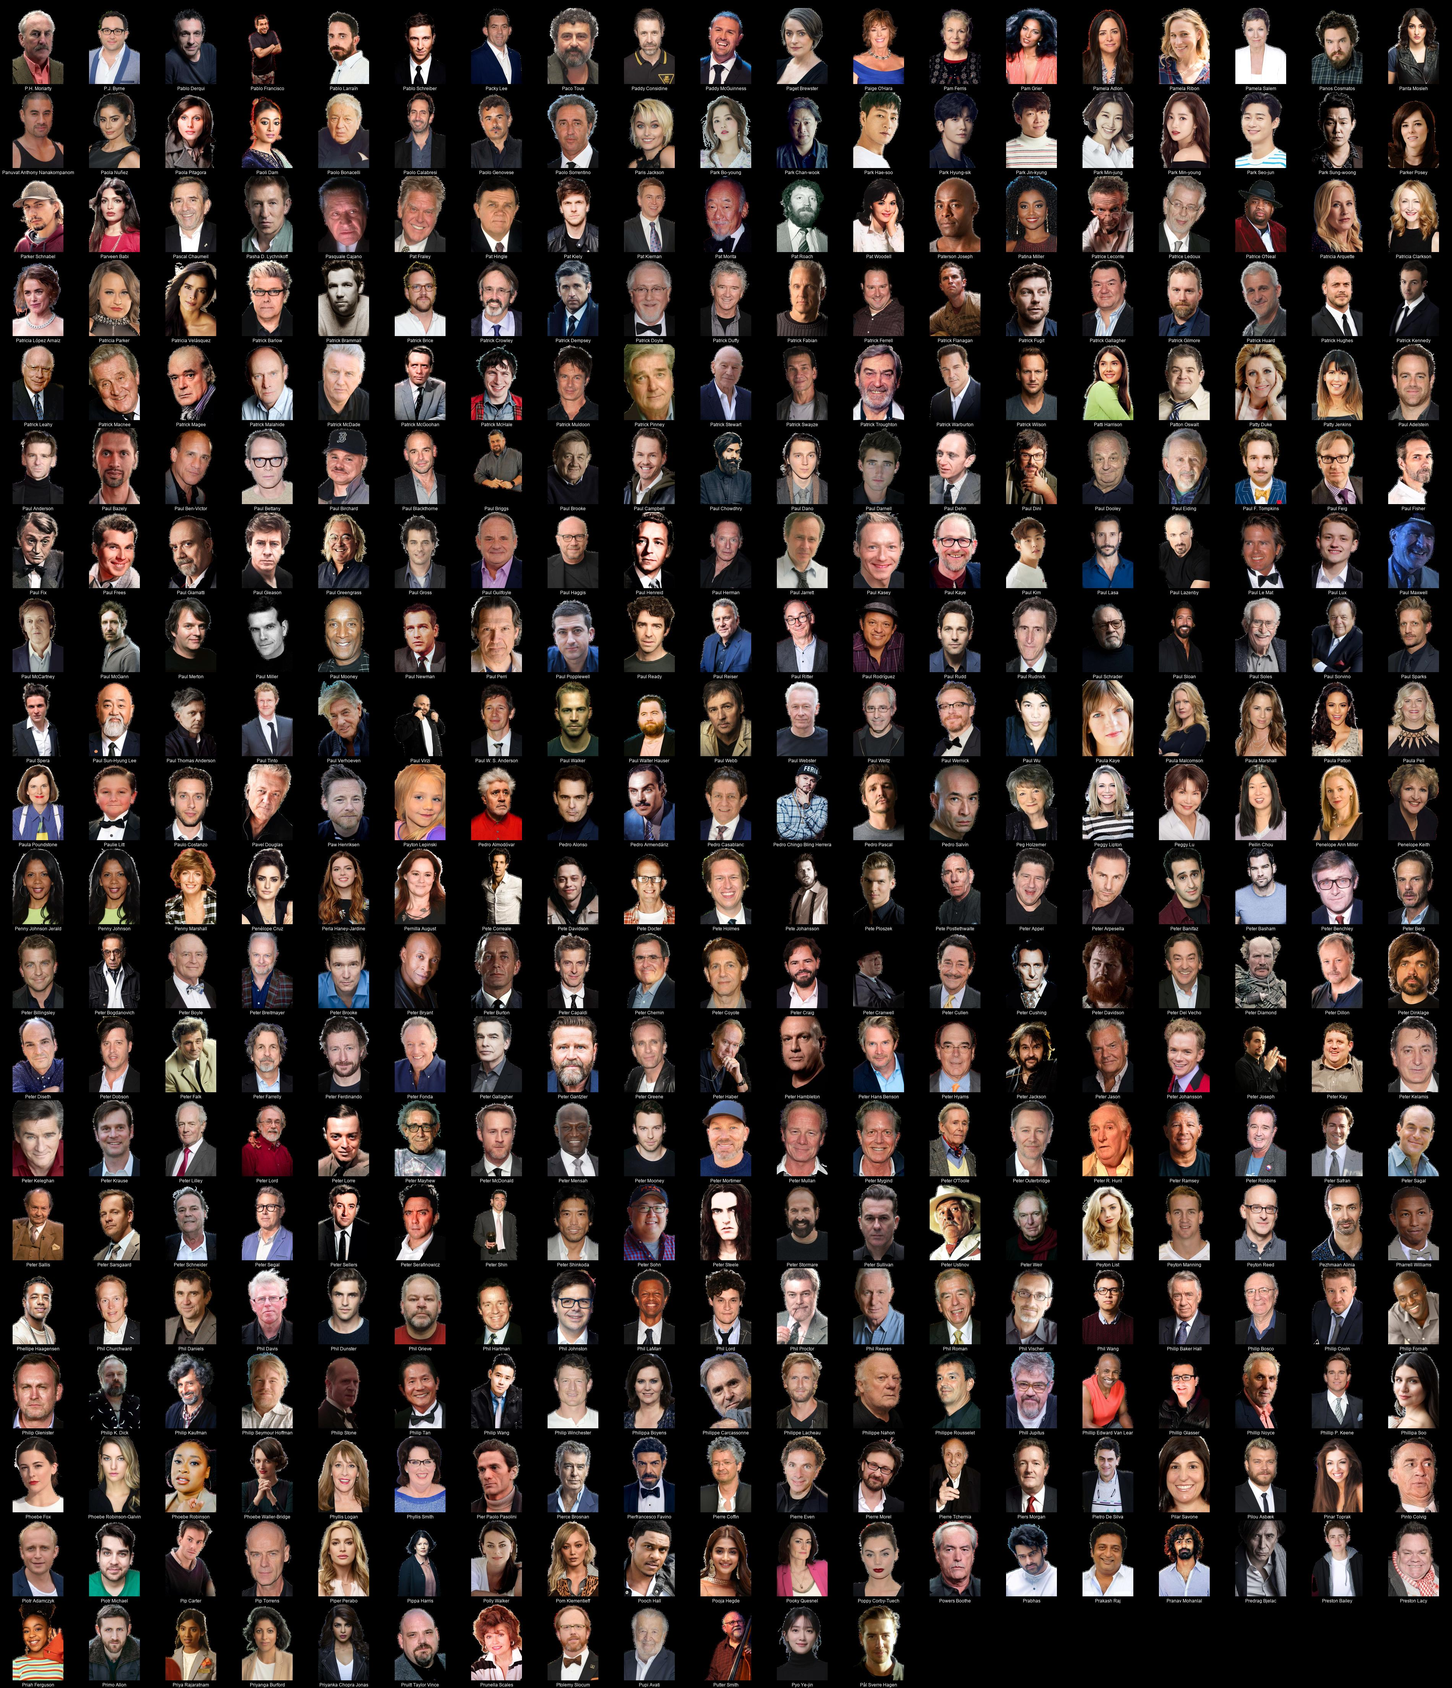
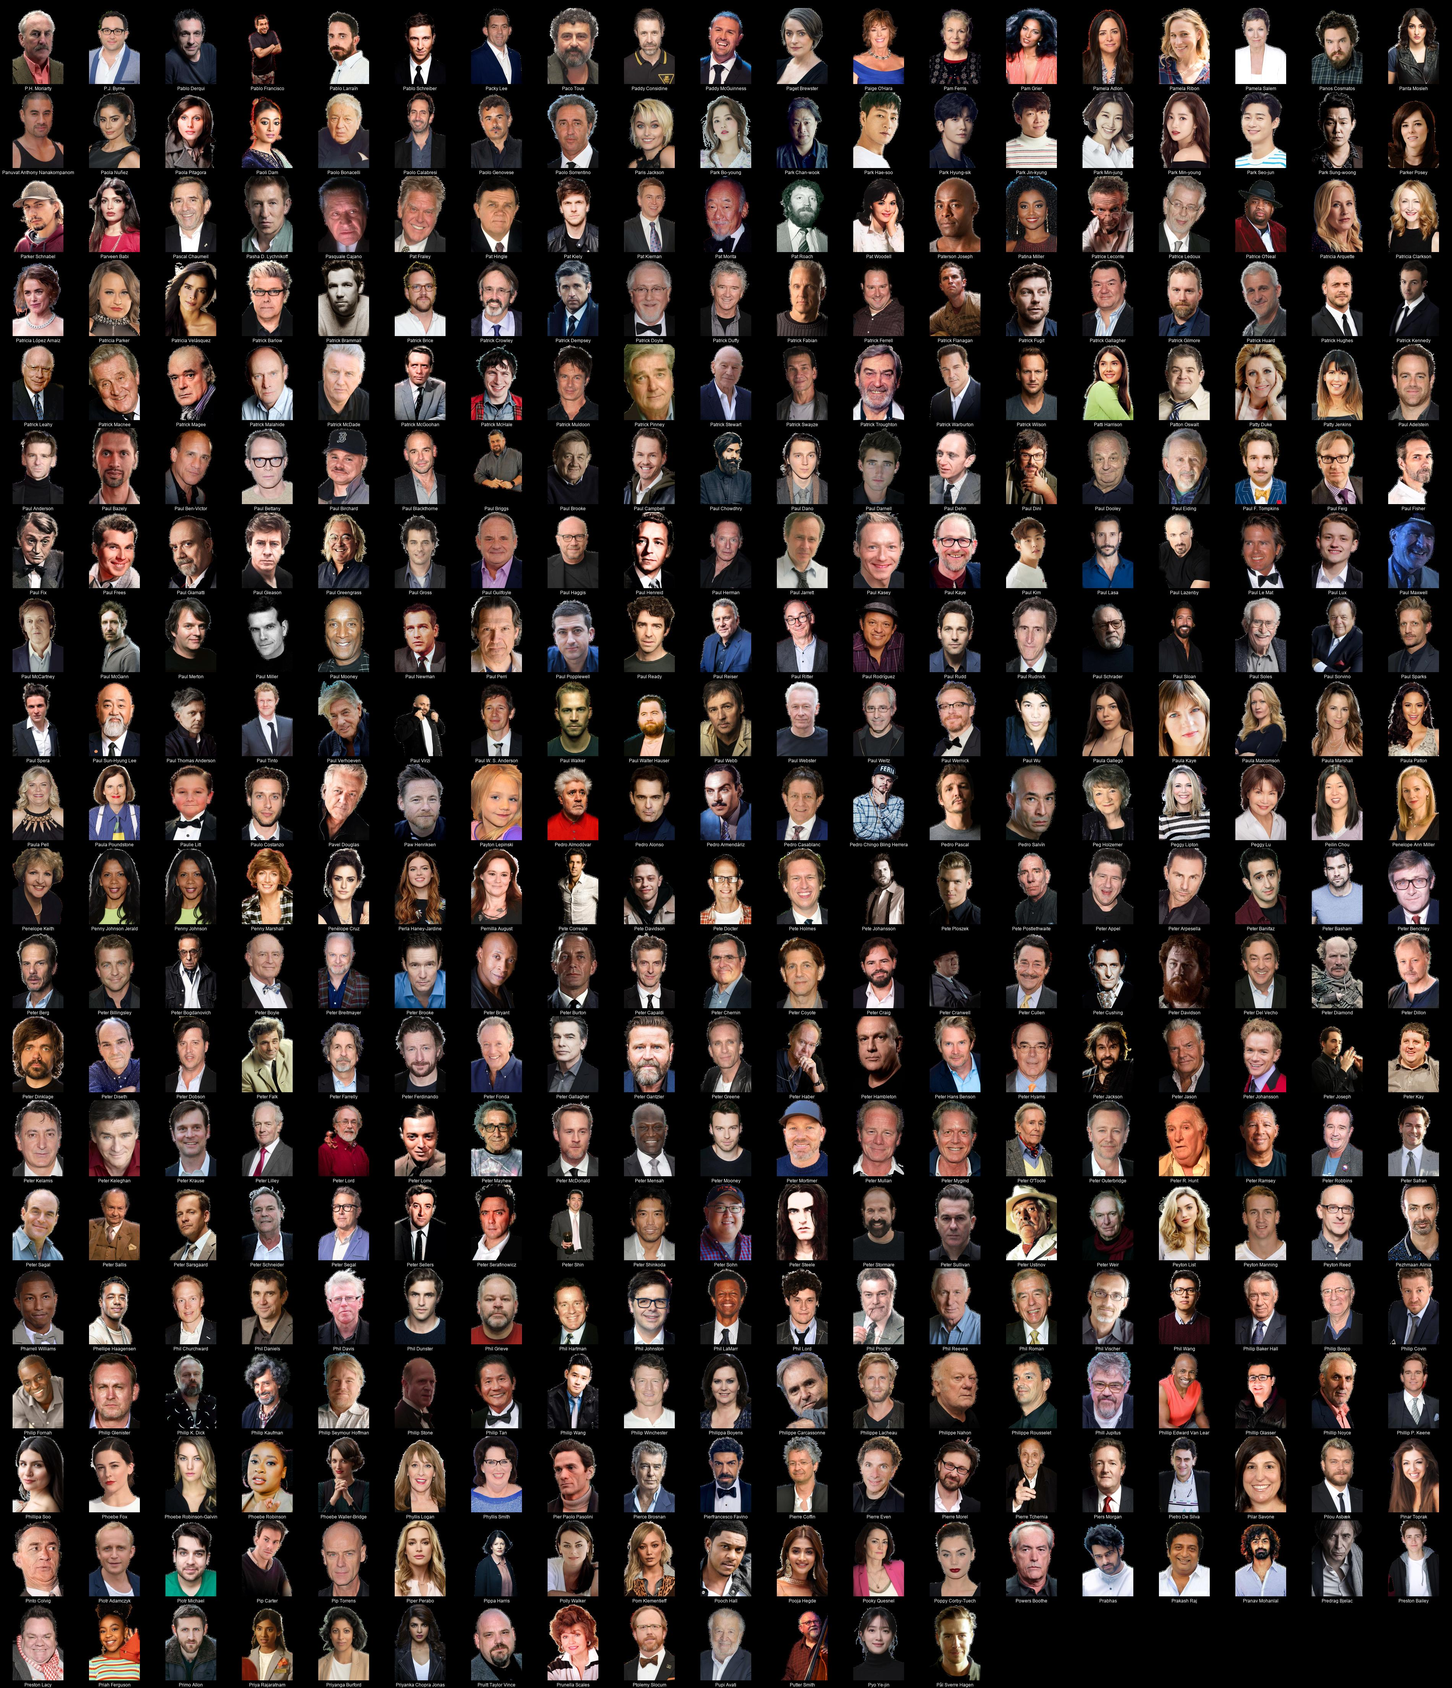
more grids

Changed region(s): [[0.0, 0.4059, 0.9937, 0.9991]]

diff --git a/README.md b/README.md
@@ -1,10 +1,10 @@
-# Kometa People Images - Transparent (transparent) (9590 Images)
+# Kometa People Images - Transparent (transparent) (9601 Images)
 
 <details><summary><a href="'">' (1 Images)</a></summary>
 
 * ['Weird Al' Yankovic](https://raw.githubusercontent.com/Kometa-Team/People-Images-transparent/master/'/Images/%27Weird%20Al%27%20Yankovic.png)
 </details>
-<details><summary><a href="A">A (779 Images)</a></summary>
+<details><summary><a href="A">A (780 Images)</a></summary>
 
 * [AJ Kane](https://raw.githubusercontent.com/Kometa-Team/People-Images-transparent/master/A/Images/AJ%20Kane.png)
 * [Aamir Khan](https://raw.githubusercontent.com/Kometa-Team/People-Images-transparent/master/A/Images/Aamir%20Khan.png)
@@ -71,6 +71,7 @@
 * [Adam Newman](https://raw.githubusercontent.com/Kometa-Team/People-Images-transparent/master/A/Images/Adam%20Newman.png)
 * [Adam Pally](https://raw.githubusercontent.com/Kometa-Team/People-Images-transparent/master/A/Images/Adam%20Pally.png)
 * [Adam Pelta-Pauls](https://raw.githubusercontent.com/Kometa-Team/People-Images-transparent/master/A/Images/Adam%20Pelta-Pauls.png)
+* [Adam Pålsson](https://raw.githubusercontent.com/Kometa-Team/People-Images-transparent/master/A/Images/Adam%20P%C3%A5lsson.png)
 * [Adam Quezada](https://raw.githubusercontent.com/Kometa-Team/People-Images-transparent/master/A/Images/Adam%20Quezada.png)
 * [Adam Sandler](https://raw.githubusercontent.com/Kometa-Team/People-Images-transparent/master/A/Images/Adam%20Sandler.png)
 * [Adam Scott](https://raw.githubusercontent.com/Kometa-Team/People-Images-transparent/master/A/Images/Adam%20Scott.png)
@@ -2854,7 +2855,7 @@
 * [Ezra Buzzington](https://raw.githubusercontent.com/Kometa-Team/People-Images-transparent/master/E/Images/Ezra%20Buzzington.png)
 * [Ezra Miller](https://raw.githubusercontent.com/Kometa-Team/People-Images-transparent/master/E/Images/Ezra%20Miller.png)
 </details>
-<details><summary><a href="F">F (170 Images)</a></summary>
+<details><summary><a href="F">F (172 Images)</a></summary>
 
 * [F. Gary Gray](https://raw.githubusercontent.com/Kometa-Team/People-Images-transparent/master/F/Images/F.%20Gary%20Gray.png)
 * [F. Murray Abraham](https://raw.githubusercontent.com/Kometa-Team/People-Images-transparent/master/F/Images/F.%20Murray%20Abraham.png)
@@ -2890,6 +2891,7 @@
 * [Faye Wong](https://raw.githubusercontent.com/Kometa-Team/People-Images-transparent/master/F/Images/Faye%20Wong.png)
 * [Fede Álvarez](https://raw.githubusercontent.com/Kometa-Team/People-Images-transparent/master/F/Images/Fede%20%C3%81lvarez.png)
 * [Federico Fellini](https://raw.githubusercontent.com/Kometa-Team/People-Images-transparent/master/F/Images/Federico%20Fellini.png)
+* [Fele Martínez](https://raw.githubusercontent.com/Kometa-Team/People-Images-transparent/master/F/Images/Fele%20Mart%C3%ADnez.png)
 * [Felicity Huffman](https://raw.githubusercontent.com/Kometa-Team/People-Images-transparent/master/F/Images/Felicity%20Huffman.png)
 * [Felicity Jones](https://raw.githubusercontent.com/Kometa-Team/People-Images-transparent/master/F/Images/Felicity%20Jones.png)
 * [Felicity Montagu](https://raw.githubusercontent.com/Kometa-Team/People-Images-transparent/master/F/Images/Felicity%20Montagu.png)
@@ -2907,6 +2909,7 @@
 * [Fernando Cayo](https://raw.githubusercontent.com/Kometa-Team/People-Images-transparent/master/F/Images/Fernando%20Cayo.png)
 * [Fernando Chien](https://raw.githubusercontent.com/Kometa-Team/People-Images-transparent/master/F/Images/Fernando%20Chien.png)
 * [Fernando Di Leo](https://raw.githubusercontent.com/Kometa-Team/People-Images-transparent/master/F/Images/Fernando%20Di%20Leo.png)
+* [Fernando Gil](https://raw.githubusercontent.com/Kometa-Team/People-Images-transparent/master/F/Images/Fernando%20Gil.png)
 * [Fernando Meirelles](https://raw.githubusercontent.com/Kometa-Team/People-Images-transparent/master/F/Images/Fernando%20Meirelles.png)
 * [Fernando Rey](https://raw.githubusercontent.com/Kometa-Team/People-Images-transparent/master/F/Images/Fernando%20Rey.png)
 * [Fernando Soto](https://raw.githubusercontent.com/Kometa-Team/People-Images-transparent/master/F/Images/Fernando%20Soto.png)
@@ -3027,7 +3030,7 @@
 * [Fritz von Friedl](https://raw.githubusercontent.com/Kometa-Team/People-Images-transparent/master/F/Images/Fritz%20von%20Friedl.png)
 * [Frédéric North](https://raw.githubusercontent.com/Kometa-Team/People-Images-transparent/master/F/Images/Fr%C3%A9d%C3%A9ric%20North.png)
 </details>
-<details><summary><a href="G">G (323 Images)</a></summary>
+<details><summary><a href="G">G (324 Images)</a></summary>
 
 * [G-Eazy](https://raw.githubusercontent.com/Kometa-Team/People-Images-transparent/master/G/Images/G-Eazy.png)
 * [G. D. Spradlin](https://raw.githubusercontent.com/Kometa-Team/People-Images-transparent/master/G/Images/G.%20D.%20Spradlin.png)
@@ -3265,6 +3268,7 @@
 * [Gordon Liu Chia-Hui](https://raw.githubusercontent.com/Kometa-Team/People-Images-transparent/master/G/Images/Gordon%20Liu%20Chia-Hui.png)
 * [Gordon Ramsay](https://raw.githubusercontent.com/Kometa-Team/People-Images-transparent/master/G/Images/Gordon%20Ramsay.png)
 * [Gore Verbinski](https://raw.githubusercontent.com/Kometa-Team/People-Images-transparent/master/G/Images/Gore%20Verbinski.png)
+* [Gorka Otxoa](https://raw.githubusercontent.com/Kometa-Team/People-Images-transparent/master/G/Images/Gorka%20Otxoa.png)
 * [Goro Miyazaki](https://raw.githubusercontent.com/Kometa-Team/People-Images-transparent/master/G/Images/Goro%20Miyazaki.png)
 * [Gottfried John](https://raw.githubusercontent.com/Kometa-Team/People-Images-transparent/master/G/Images/Gottfried%20John.png)
 * [Govinda](https://raw.githubusercontent.com/Kometa-Team/People-Images-transparent/master/G/Images/Govinda.png)
@@ -4897,7 +4901,7 @@
 * [Jürgen Prochnow](https://raw.githubusercontent.com/Kometa-Team/People-Images-transparent/master/J/Images/J%C3%BCrgen%20Prochnow.png)
 * [Jūzō Itami](https://raw.githubusercontent.com/Kometa-Team/People-Images-transparent/master/J/Images/J%C5%ABz%C5%8D%20Itami.png)
 </details>
-<details><summary><a href="K">K (470 Images)</a></summary>
+<details><summary><a href="K">K (471 Images)</a></summary>
 
 * [K Raghavendra Rao](https://raw.githubusercontent.com/Kometa-Team/People-Images-transparent/master/K/Images/K%20Raghavendra%20Rao.png)
 * [K.J. Apa](https://raw.githubusercontent.com/Kometa-Team/People-Images-transparent/master/K/Images/K.J.%20Apa.png)
@@ -5263,6 +5267,7 @@
 * [King Hu](https://raw.githubusercontent.com/Kometa-Team/People-Images-transparent/master/K/Images/King%20Hu.png)
 * [Kinji Fukasaku](https://raw.githubusercontent.com/Kometa-Team/People-Images-transparent/master/K/Images/Kinji%20Fukasaku.png)
 * [Kip Chapman](https://raw.githubusercontent.com/Kometa-Team/People-Images-transparent/master/K/Images/Kip%20Chapman.png)
+* [Kira Miró](https://raw.githubusercontent.com/Kometa-Team/People-Images-transparent/master/K/Images/Kira%20Mir%C3%B3.png)
 * [Kiran Shah](https://raw.githubusercontent.com/Kometa-Team/People-Images-transparent/master/K/Images/Kiran%20Shah.png)
 * [Kirby Howell-Baptiste](https://raw.githubusercontent.com/Kometa-Team/People-Images-transparent/master/K/Images/Kirby%20Howell-Baptiste.png)
 * [Kirill Nikiforov](https://raw.githubusercontent.com/Kometa-Team/People-Images-transparent/master/K/Images/Kirill%20Nikiforov.png)
@@ -5370,7 +5375,7 @@
 * [Kyung Soo-jin](https://raw.githubusercontent.com/Kometa-Team/People-Images-transparent/master/K/Images/Kyung%20Soo-jin.png)
 * [Kō Nakahira](https://raw.githubusercontent.com/Kometa-Team/People-Images-transparent/master/K/Images/K%C5%8D%20Nakahira.png)
 </details>
-<details><summary><a href="L">L (413 Images)</a></summary>
+<details><summary><a href="L">L (414 Images)</a></summary>
 
 * [L. Q. Jones](https://raw.githubusercontent.com/Kometa-Team/People-Images-transparent/master/L/Images/L.%20Q.%20Jones.png)
 * [LL Cool J](https://raw.githubusercontent.com/Kometa-Team/People-Images-transparent/master/L/Images/LL%20Cool%20J.png)
@@ -5440,6 +5445,7 @@
 * [Laura Hitchings](https://raw.githubusercontent.com/Kometa-Team/People-Images-transparent/master/L/Images/Laura%20Hitchings.png)
 * [Laura Linney](https://raw.githubusercontent.com/Kometa-Team/People-Images-transparent/master/L/Images/Laura%20Linney.png)
 * [Laura Porta](https://raw.githubusercontent.com/Kometa-Team/People-Images-transparent/master/L/Images/Laura%20Porta.png)
+* [Laura Río](https://raw.githubusercontent.com/Kometa-Team/People-Images-transparent/master/L/Images/Laura%20R%C3%ADo.png)
 * [Laura Slade Wiggins](https://raw.githubusercontent.com/Kometa-Team/People-Images-transparent/master/L/Images/Laura%20Slade%20Wiggins.png)
 * [Laura Solon](https://raw.githubusercontent.com/Kometa-Team/People-Images-transparent/master/L/Images/Laura%20Solon.png)
 * [Laura Vandervoort](https://raw.githubusercontent.com/Kometa-Team/People-Images-transparent/master/L/Images/Laura%20Vandervoort.png)
@@ -5786,7 +5792,7 @@
 * [Léa Seydoux](https://raw.githubusercontent.com/Kometa-Team/People-Images-transparent/master/L/Images/L%C3%A9a%20Seydoux.png)
 * [Lúcio Andrey](https://raw.githubusercontent.com/Kometa-Team/People-Images-transparent/master/L/Images/L%C3%BAcio%20Andrey.png)
 </details>
-<details><summary><a href="M">M (900 Images)</a></summary>
+<details><summary><a href="M">M (901 Images)</a></summary>
 
 * [M'laah Kaur Singh](https://raw.githubusercontent.com/Kometa-Team/People-Images-transparent/master/M/Images/M%27laah%20Kaur%20Singh.png)
 * [M. Emmet Walsh](https://raw.githubusercontent.com/Kometa-Team/People-Images-transparent/master/M/Images/M.%20Emmet%20Walsh.png)
@@ -6132,6 +6138,7 @@
 * [Maryam d'Abo](https://raw.githubusercontent.com/Kometa-Team/People-Images-transparent/master/M/Images/Maryam%20d%27Abo.png)
 * [Maryann Plunkett](https://raw.githubusercontent.com/Kometa-Team/People-Images-transparent/master/M/Images/Maryann%20Plunkett.png)
 * [María Cecilia Botero](https://raw.githubusercontent.com/Kometa-Team/People-Images-transparent/master/M/Images/Mar%C3%ADa%20Cecilia%20Botero.png)
+* [María Hervás](https://raw.githubusercontent.com/Kometa-Team/People-Images-transparent/master/M/Images/Mar%C3%ADa%20Herv%C3%A1s.png)
 * [Masaaki Yuasa](https://raw.githubusercontent.com/Kometa-Team/People-Images-transparent/master/M/Images/Masaaki%20Yuasa.png)
 * [Masahiko Nishimura](https://raw.githubusercontent.com/Kometa-Team/People-Images-transparent/master/M/Images/Masahiko%20Nishimura.png)
 * [Masakazu Morita](https://raw.githubusercontent.com/Kometa-Team/People-Images-transparent/master/M/Images/Masakazu%20Morita.png)
@@ -6689,7 +6696,7 @@
 * [Måns Nathanaelson](https://raw.githubusercontent.com/Kometa-Team/People-Images-transparent/master/M/Images/M%C3%A5ns%20Nathanaelson.png)
 * [Mélanie Laurent](https://raw.githubusercontent.com/Kometa-Team/People-Images-transparent/master/M/Images/M%C3%A9lanie%20Laurent.png)
 </details>
-<details><summary><a href="N">N (267 Images)</a></summary>
+<details><summary><a href="N">N (268 Images)</a></summary>
 
 * [N.T. Rama Rao Jr.](https://raw.githubusercontent.com/Kometa-Team/People-Images-transparent/master/N/Images/N.T.%20Rama%20Rao%20Jr..png)
 * [Na Hong-jin](https://raw.githubusercontent.com/Kometa-Team/People-Images-transparent/master/N/Images/Na%20Hong-jin.png)
@@ -6764,6 +6771,7 @@
 * [Nawazuddin Siddiqui](https://raw.githubusercontent.com/Kometa-Team/People-Images-transparent/master/N/Images/Nawazuddin%20Siddiqui.png)
 * [Naya Rivera](https://raw.githubusercontent.com/Kometa-Team/People-Images-transparent/master/N/Images/Naya%20Rivera.png)
 * [Nazanin Boniadi](https://raw.githubusercontent.com/Kometa-Team/People-Images-transparent/master/N/Images/Nazanin%20Boniadi.png)
+* [Nazaret Aracil](https://raw.githubusercontent.com/Kometa-Team/People-Images-transparent/master/N/Images/Nazaret%20Aracil.png)
 * [Nazneen Contractor](https://raw.githubusercontent.com/Kometa-Team/People-Images-transparent/master/N/Images/Nazneen%20Contractor.png)
 * [Ncuti Gatwa](https://raw.githubusercontent.com/Kometa-Team/People-Images-transparent/master/N/Images/Ncuti%20Gatwa.png)
 * [Neal Brennan](https://raw.githubusercontent.com/Kometa-Team/People-Images-transparent/master/N/Images/Neal%20Brennan.png)
@@ -7045,7 +7053,7 @@
 * [Owen Teale](https://raw.githubusercontent.com/Kometa-Team/People-Images-transparent/master/O/Images/Owen%20Teale.png)
 * [Owen Wilson](https://raw.githubusercontent.com/Kometa-Team/People-Images-transparent/master/O/Images/Owen%20Wilson.png)
 </details>
-<details><summary><a href="P">P (373 Images)</a></summary>
+<details><summary><a href="P">P (374 Images)</a></summary>
 
 * [P.H. Moriarty](https://raw.githubusercontent.com/Kometa-Team/People-Images-transparent/master/P/Images/P.H.%20Moriarty.png)
 * [P.J. Byrne](https://raw.githubusercontent.com/Kometa-Team/People-Images-transparent/master/P/Images/P.J.%20Byrne.png)
@@ -7213,6 +7221,7 @@
 * [Paul Weitz](https://raw.githubusercontent.com/Kometa-Team/People-Images-transparent/master/P/Images/Paul%20Weitz.png)
 * [Paul Wernick](https://raw.githubusercontent.com/Kometa-Team/People-Images-transparent/master/P/Images/Paul%20Wernick.png)
 * [Paul Wu](https://raw.githubusercontent.com/Kometa-Team/People-Images-transparent/master/P/Images/Paul%20Wu.png)
+* [Paula Gallego](https://raw.githubusercontent.com/Kometa-Team/People-Images-transparent/master/P/Images/Paula%20Gallego.png)
 * [Paula Kaye](https://raw.githubusercontent.com/Kometa-Team/People-Images-transparent/master/P/Images/Paula%20Kaye.png)
 * [Paula Malcomson](https://raw.githubusercontent.com/Kometa-Team/People-Images-transparent/master/P/Images/Paula%20Malcomson.png)
 * [Paula Marshall](https://raw.githubusercontent.com/Kometa-Team/People-Images-transparent/master/P/Images/Paula%20Marshall.png)
@@ -7432,7 +7441,7 @@
 * [Quinn Duffy](https://raw.githubusercontent.com/Kometa-Team/People-Images-transparent/master/Q/Images/Quinn%20Duffy.png)
 * [Quinton Jackson](https://raw.githubusercontent.com/Kometa-Team/People-Images-transparent/master/Q/Images/Quinton%20Jackson.png)
 </details>
-<details><summary><a href="R">R (612 Images)</a></summary>
+<details><summary><a href="R">R (614 Images)</a></summary>
 
 * [R. Lee Ermey](https://raw.githubusercontent.com/Kometa-Team/People-Images-transparent/master/R/Images/R.%20Lee%20Ermey.png)
 * [R. Madhavan](https://raw.githubusercontent.com/Kometa-Team/People-Images-transparent/master/R/Images/R.%20Madhavan.png)
@@ -7516,6 +7525,7 @@
 * [Ranveer Singh](https://raw.githubusercontent.com/Kometa-Team/People-Images-transparent/master/R/Images/Ranveer%20Singh.png)
 * [Raoul Walsh](https://raw.githubusercontent.com/Kometa-Team/People-Images-transparent/master/R/Images/Raoul%20Walsh.png)
 * [Raphael Alejandro](https://raw.githubusercontent.com/Kometa-Team/People-Images-transparent/master/R/Images/Raphael%20Alejandro.png)
+* [Raquel Guerrero](https://raw.githubusercontent.com/Kometa-Team/People-Images-transparent/master/R/Images/Raquel%20Guerrero.png)
 * [Raquel Welch](https://raw.githubusercontent.com/Kometa-Team/People-Images-transparent/master/R/Images/Raquel%20Welch.png)
 * [Rashad Evans](https://raw.githubusercontent.com/Kometa-Team/People-Images-transparent/master/R/Images/Rashad%20Evans.png)
 * [Rashida Jones](https://raw.githubusercontent.com/Kometa-Team/People-Images-transparent/master/R/Images/Rashida%20Jones.png)
@@ -7552,6 +7562,7 @@
 * [Rayner Bourton](https://raw.githubusercontent.com/Kometa-Team/People-Images-transparent/master/R/Images/Rayner%20Bourton.png)
 * [Rayver Cruz](https://raw.githubusercontent.com/Kometa-Team/People-Images-transparent/master/R/Images/Rayver%20Cruz.png)
 * [Raúl Esparza](https://raw.githubusercontent.com/Kometa-Team/People-Images-transparent/master/R/Images/Ra%C3%BAl%20Esparza.png)
+* [Raúl Tejón](https://raw.githubusercontent.com/Kometa-Team/People-Images-transparent/master/R/Images/Ra%C3%BAl%20Tej%C3%B3n.png)
 * [Reb Brown](https://raw.githubusercontent.com/Kometa-Team/People-Images-transparent/master/R/Images/Reb%20Brown.png)
 * [Rebecca Ferguson](https://raw.githubusercontent.com/Kometa-Team/People-Images-transparent/master/R/Images/Rebecca%20Ferguson.png)
 * [Rebecca Front](https://raw.githubusercontent.com/Kometa-Team/People-Images-transparent/master/R/Images/Rebecca%20Front.png)

diff --git a/R/README.md b/R/README.md
@@ -1,4 +1,4 @@
-# Kometa People Images - Transparent (transparent) - R (612 Images)
+# Kometa People Images - Transparent (transparent) - R (614 Images)
 ![Grid](grid.jpg)
 
 * [R. Lee Ermey](https://raw.githubusercontent.com/Kometa-Team/People-Images-transparent/master/R/Images/R.%20Lee%20Ermey.png)
@@ -83,6 +83,7 @@
 * [Ranveer Singh](https://raw.githubusercontent.com/Kometa-Team/People-Images-transparent/master/R/Images/Ranveer%20Singh.png)
 * [Raoul Walsh](https://raw.githubusercontent.com/Kometa-Team/People-Images-transparent/master/R/Images/Raoul%20Walsh.png)
 * [Raphael Alejandro](https://raw.githubusercontent.com/Kometa-Team/People-Images-transparent/master/R/Images/Raphael%20Alejandro.png)
+* [Raquel Guerrero](https://raw.githubusercontent.com/Kometa-Team/People-Images-transparent/master/R/Images/Raquel%20Guerrero.png)
 * [Raquel Welch](https://raw.githubusercontent.com/Kometa-Team/People-Images-transparent/master/R/Images/Raquel%20Welch.png)
 * [Rashad Evans](https://raw.githubusercontent.com/Kometa-Team/People-Images-transparent/master/R/Images/Rashad%20Evans.png)
 * [Rashida Jones](https://raw.githubusercontent.com/Kometa-Team/People-Images-transparent/master/R/Images/Rashida%20Jones.png)
@@ -119,6 +120,7 @@
 * [Rayner Bourton](https://raw.githubusercontent.com/Kometa-Team/People-Images-transparent/master/R/Images/Rayner%20Bourton.png)
 * [Rayver Cruz](https://raw.githubusercontent.com/Kometa-Team/People-Images-transparent/master/R/Images/Rayver%20Cruz.png)
 * [Raúl Esparza](https://raw.githubusercontent.com/Kometa-Team/People-Images-transparent/master/R/Images/Ra%C3%BAl%20Esparza.png)
+* [Raúl Tejón](https://raw.githubusercontent.com/Kometa-Team/People-Images-transparent/master/R/Images/Ra%C3%BAl%20Tej%C3%B3n.png)
 * [Reb Brown](https://raw.githubusercontent.com/Kometa-Team/People-Images-transparent/master/R/Images/Reb%20Brown.png)
 * [Rebecca Ferguson](https://raw.githubusercontent.com/Kometa-Team/People-Images-transparent/master/R/Images/Rebecca%20Ferguson.png)
 * [Rebecca Front](https://raw.githubusercontent.com/Kometa-Team/People-Images-transparent/master/R/Images/Rebecca%20Front.png)

diff --git a/P/README.md b/P/README.md
@@ -1,4 +1,4 @@
-# Kometa People Images - Transparent (transparent) - P (373 Images)
+# Kometa People Images - Transparent (transparent) - P (374 Images)
 ![Grid](grid.jpg)
 
 * [P.H. Moriarty](https://raw.githubusercontent.com/Kometa-Team/People-Images-transparent/master/P/Images/P.H.%20Moriarty.png)
@@ -167,6 +167,7 @@
 * [Paul Weitz](https://raw.githubusercontent.com/Kometa-Team/People-Images-transparent/master/P/Images/Paul%20Weitz.png)
 * [Paul Wernick](https://raw.githubusercontent.com/Kometa-Team/People-Images-transparent/master/P/Images/Paul%20Wernick.png)
 * [Paul Wu](https://raw.githubusercontent.com/Kometa-Team/People-Images-transparent/master/P/Images/Paul%20Wu.png)
+* [Paula Gallego](https://raw.githubusercontent.com/Kometa-Team/People-Images-transparent/master/P/Images/Paula%20Gallego.png)
 * [Paula Kaye](https://raw.githubusercontent.com/Kometa-Team/People-Images-transparent/master/P/Images/Paula%20Kaye.png)
 * [Paula Malcomson](https://raw.githubusercontent.com/Kometa-Team/People-Images-transparent/master/P/Images/Paula%20Malcomson.png)
 * [Paula Marshall](https://raw.githubusercontent.com/Kometa-Team/People-Images-transparent/master/P/Images/Paula%20Marshall.png)
